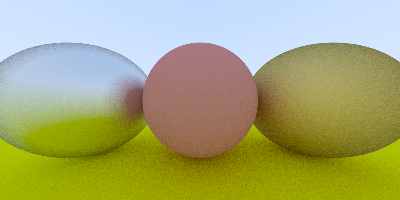
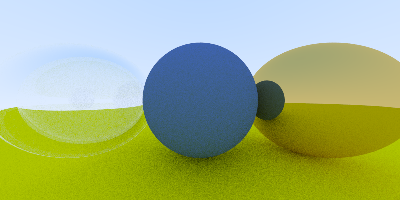
Add dielectric material

diff --git a/src/main.rs b/src/main.rs
@@ -1,6 +1,6 @@
 use std::{env::args, time::Instant, str::FromStr};
 
-use structures::{scene::Scene, node::Node, materials::{diffuse::Diffuse, metal::Metal}};
+use structures::{scene::Scene, node::Node, materials::{diffuse::Diffuse, metal::Metal, dielectric::Dielectric}};
 use utils::GeneralInfo;
 
 use crate::{color::Color, math::vector3::Vector3, ray::Ray, structures::{sphere::Sphere, camera::Camera}};
@@ -90,7 +90,7 @@ fn ray_color(scene: &Scene, ray: Ray, depth: u64) -> Color {
         return Color::new(0.0, 0.0, 0.0);
     }
 
-    let trace_res = scene.trace(&ray, 0.001, 10000.0);
+    let trace_res = scene.trace(&ray, 0.0001, 10000.0);
 
     if trace_res.is_some() {
         let hit = trace_res.unwrap();
@@ -119,9 +119,11 @@ fn init_scene() -> Scene {
     let mut scene = Scene::new();
 
     let material1 = Diffuse::new(Color::new(0.8, 0.8, 0.0));
-    let material2 = Diffuse::new(Color::new(0.7, 0.3, 0.3));
-    let material3 = Metal::new(Color::new(0.8, 0.8, 0.8), 0.5);
-    let material4 = Metal::new(Color::new(0.8, 0.6, 0.2), 1.0);
+    let material2 = Diffuse::new(Color::new(0.1, 0.2, 0.5));
+    //let material3 = Metal::new(Color::new(0.8, 0.8, 0.8), 0.5);
+    let material4 = Metal::new(Color::new(0.8, 0.6, 0.2), 0.0);
+    let material5 = Dielectric::new(1.5);
+    let material6 = Dielectric::new(1.5);
     
     let mut node1 = Node::new();
     let sphere1 = Sphere::new(
@@ -136,23 +138,30 @@ fn init_scene() -> Scene {
     let mut node3 = Node::new();
     let sphere3 = Sphere::new(
         Vector3::new(-1.0, 0.0, -1.0), 0.5,
-        Box::new(material3)
+        Box::new(material5)
     );
     let mut node4 = Node::new();
     let sphere4 = Sphere::new(
         Vector3::new(1.0, 0.0, -1.0), 0.5,
         Box::new(material4)
     );
+    let mut node5 = Node::new();
+    let sphere5 = Sphere::new(
+        Vector3::new(-1.0, 0.0, -1.0), -0.4,
+        Box::new(material6)
+    );
 
     node1.set_renderable(Box::new(sphere1));
     node2.set_renderable(Box::new(sphere2));
     node3.set_renderable(Box::new(sphere3));
     node4.set_renderable(Box::new(sphere4));
+    node5.set_renderable(Box::new(sphere5));
 
     scene.add_child(node1);
     scene.add_child(node2);
     scene.add_child(node3);
     scene.add_child(node4);
+    scene.add_child(node5);
 
     return scene;
 }

diff --git a/src/structures/materials/dielectric.rs b/src/structures/materials/dielectric.rs
@@ -1,0 +1,58 @@
+use crate::{structures::{material::{Material, ScatterResult}, renderable::HitRecord}, color::Color, math::vector3::Vector3, ray::Ray};
+
+pub struct Dielectric {
+    ior: f32
+}
+
+impl Dielectric {
+    pub fn new(ior: f32) -> Self {
+        Dielectric {
+            ior
+        }
+    }
+
+    pub fn schlick_reflectance(cosine: f32, iof: f32) -> f32 {
+        let mut r0 = (1.0 - iof) / (1.0 + iof);
+        r0 = r0 * r0;
+        let res = r0 + (1.0 - r0) * (1.0 - cosine).powi(5);
+        return res;
+    }
+}
+
+impl Material for Dielectric {
+    fn scatter(&self, r_in: &Ray, hit: &HitRecord) -> Option<ScatterResult> {
+        let refr_ratio = if hit.front_face() {
+            1.0 / self.ior
+        } else {
+            self.ior
+        };
+
+        let unit_dir = r_in.get_direction().normalize();
+        let cosa = (&-&unit_dir*hit.n()).min(1.0);
+        let sina = (1.0 - cosa*cosa).sqrt();
+        let cannot_refract = refr_ratio * sina > 1.0;
+        let reflectance = Dielectric::schlick_reflectance(cosa, refr_ratio);
+        let rand_num: f32 = rand::random();
+
+        let refracted = if cannot_refract || reflectance > rand_num {
+            Vector3::reflection(&unit_dir, &hit.n())
+        } else {
+            Vector3::refraction(&unit_dir, &hit.n(), refr_ratio)
+        };
+
+        let p = hit.p().copy();
+        let attenuation = Color::new(1.0, 1.0, 1.0);
+        let scattered = Ray::new(p, refracted);
+        Some(ScatterResult {
+            ray: scattered,
+            attenuation
+        })
+    }
+
+    fn copy(&self) -> Box<dyn Material> {
+        let mat = Dielectric {
+            ior: self.ior
+        };
+        return Box::new(mat);
+    }
+}

diff --git a/src/math/vector3.rs b/src/math/vector3.rs
@@ -119,6 +119,15 @@ impl Vector3 {
             z: a3 / norm
         }
     }
+
+    /* Warning: i and n should be normalized!!! */
+    pub fn refraction(i: &Vector3, n: &Vector3, c: f32) -> Vector3 {
+        let cosa =  (&-i*n).min(1.0);
+        let v_pe = (i + &(n*cosa)) * c;
+        let v_pa = n * -(1.0 - &v_pe*&v_pe).abs().sqrt();
+        let v = v_pe + v_pa;
+        return v;
+    }
 }
 
 impl Display for Vector3 {
@@ -177,6 +186,18 @@ impl ops::Mul<f32> for Vector3 {
     }
 }
 
+impl ops::Mul<f32> for &Vector3 {
+    type Output = Vector3;
+
+    fn mul(self, rhs: f32) -> Self::Output {
+        Vector3 {
+            x: self.x * rhs,
+            y: self.y * rhs,
+            z: self.z * rhs
+        }
+    }
+}
+
 impl ops::Sub<Vector3> for Vector3 {
     type Output = Vector3;
 
@@ -208,5 +229,17 @@ impl ops::Neg for Vector3 {
         self.y = -self.y;
         self.z = -self.z;
         self
+    }
+}
+
+impl ops::Neg for &Vector3 {
+    type Output = Vector3;
+
+    fn neg(self) -> Self::Output {
+        Vector3 {
+            x: -self.x,
+            y: -self.y,
+            z: -self.z
+        }
     }
 }

diff --git a/src/structures/sphere.rs b/src/structures/sphere.rs
@@ -19,7 +19,7 @@ impl Sphere {
 
     pub fn normal(&self, p: &Vector3) -> Vector3 {
         let diff = Vector3::diff(p, &self.center);
-        let n = diff.normalize();
+        let n = diff * (1.0 / self.radius);
         return n;
     }
 }
@@ -43,10 +43,10 @@ impl Renderable for Sphere {
 
         let disqrt = dis.sqrt();
         
-        let t = (-half_b - disqrt) / a;
+        let mut t = (-half_b - disqrt) / a;
 
         if t < t_min || t > t_max {
-            let t = (-half_b + disqrt) / a;
+            t = (-half_b + disqrt) / a;
             if t < t_min || t > t_max {
                 return None;
             }
@@ -54,7 +54,7 @@ impl Renderable for Sphere {
 
         let point = ray.at(t);
         let mut v_n = self.normal(&point);
-        let is_front_face = if v_rd * &v_n > 0.0 {
+        let is_front_face = if v_rd * &v_n >= 0.0 {
             v_n = v_n * -1.0;
             false
         } else {

diff --git a/src/color.rs b/src/color.rs
@@ -1,4 +1,4 @@
-use std::ops;
+use std::{ops, fmt::Display};
 
 pub struct Color {
     pub r: f32,
@@ -93,5 +93,11 @@ impl ops::Mul<&Color> for &Color {
             g: self.g * rhs.g,
             b: self.b * rhs.b
         }
+    }
+}
+
+impl Display for Color {
+    fn fmt(&self, f: &mut std::fmt::Formatter<'_>) -> std::fmt::Result {
+        write!(f, "[{} {} {}]", self.r, self.g, self.b)
     }
 }

diff --git a/src/structures/renderable.rs b/src/structures/renderable.rs
@@ -29,6 +29,10 @@ impl HitRecord {
         self.t
     }
 
+    pub fn front_face(&self) -> bool {
+        self.front_face
+    }
+
     pub fn material(&self) -> &Box<dyn Material> {
         &self.material
     }

diff --git a/src/structures/materials/mod.rs b/src/structures/materials/mod.rs
@@ -1,2 +1,3 @@
 pub mod diffuse;
 pub mod metal;
+pub mod dielectric;
